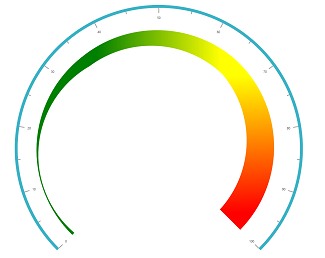
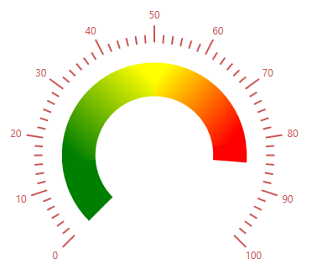
Modified the commit

Changed region(s): [[0.0288, 0.0, 0.9519, 0.9612]]

diff --git a/wpf/Radial-Gauge/Ranges.md b/wpf/Radial-Gauge/Ranges.md
@@ -626,19 +626,27 @@ You can give color transition to range by specifying the different colors based 
 
 {% highlight xaml %}
 
-        <gauge:SfCircularGauge>
+       <gauge:SfCircularGauge>
             <gauge:SfCircularGauge.Scales>
-                <gauge:CircularScale>
+                <gauge:CircularScale LabelStroke ="IndianRed" LabelOffset="0.77" LabelPosition="Custom" MinorTicksPerInterval="5"  RangePosition="Custom" TickPosition="Custom" RimStroke="White">
                     <gauge:CircularScale.Ranges>
-                        <gauge:CircularRange StartValue="0" EndValue="100" Offset="0.6"
-                                       InnerStartOffset = "0.83" InnerEndOffset = "0.6" OuterStartOffset = "0.85" OuterEndOffset =" 0.8">
+                        <gauge:CircularRange StartValue="0" EndValue="85" Offset="0.5" StrokeThickness="40" >
                             <gauge:CircularRange.GradientStops>
-                                <gauge:GaugeGradientStop Value="35" Color="Green"/>
-                                <gauge:GaugeGradientStop Value="65" Color="#FFDD00"/>
-                                <gauge:GaugeGradientStop Value="100" Color="Red"/>
+                                <gauge:GaugeGradientStop Value="15" Color="OrangeRed"/>
+                                <gauge:GaugeGradientStop Value="50" Color="#FFDD00"/>
+                                <gauge:GaugeGradientStop Value="80" Color="Green"/>
                             </gauge:CircularRange.GradientStops>
                         </gauge:CircularRange>
                     </gauge:CircularScale.Ranges>
+                    <gauge:CircularScale.MajorTickSettings>
+                        <gauge:MajorTickSetting  Length="20" Stroke="IndianRed" StrokeThickness="2"  Offset="0.7"  />
+                    </gauge:CircularScale.MajorTickSettings>
+                    <gauge:CircularScale.MinorTickSettings>
+                        <gauge:MinorTickSetting  Stroke="IndianRed"  StrokeThickness="2"  Offset="0.65"  />
+                    </gauge:CircularScale.MinorTickSettings>
+                    <gauge:CircularScale.Pointers>
+                        <gauge:CircularPointer PointerType="NeedlePointer" Visibility="Collapsed"/>
+                    </gauge:CircularScale.Pointers>
                 </gauge:CircularScale>
             </gauge:SfCircularGauge.Scales>
         </gauge:SfCircularGauge>
@@ -647,33 +655,49 @@ You can give color transition to range by specifying the different colors based 
 
 {% highlight c# %}
 
-         SfCircularGauge sfCircularGauge = new SfCircularGauge();
-         CircularScale mainscale = new CircularScale();
-         CircularRange circularRange = new CircularRange();
-         circularRange.StartValue = 0;
-         circularRange.EndValue = 100;
-         circularRange.InnerStartOffset = 0.83;
-         circularRange.InnerEndOffset = 0.6;
-         circularRange.OuterStartOffset = 0.85;	
-         circularRange.OuterEndOffset = 0.8;
-         ObservableCollection<GaugeGradientStop> gradientColor1 = new ObservableCollection<GaugeGradientStop>();
-         GaugeGradientStop gaugeGradientStop = new GaugeGradientStop();
-         gaugeGradientStop.Value = 35;
-         gaugeGradientStop.Color = Colors.Green;
-         circularRange.GradientStops.Add(gaugeGradientStop);
-         GaugeGradientStop gaugeGradientStop1 = new GaugeGradientStop();
-         gaugeGradientStop1.Value = 65;
-         gaugeGradientStop1.Color = Colors.Yellow;
-         circularRange.GradientStops.Add(gaugeGradientStop1);
-         GaugeGradientStop gaugeGradientStop2 = new GaugeGradientStop();
-         gaugeGradientStop2.Value = 100;
-         gaugeGradientStop2.Color = Colors.Red;
-         circularRange.GradientStops.Add(gaugeGradientStop2);
-         mainscale.Ranges.Add(circularRange);
-         CircularPointer circularPointer = new CircularPointer();
-         circularPointer.NeedlePointerVisibility = Visibility.Hidden;
-         mainscale.Pointers.Add(circularPointer);
-         fCircularGauge.Scales.Add(mainscale);
+            SfCircularGauge sfCircularGauge = new SfCircularGauge();
+            CircularScale mainscale = new CircularScale();
+            mainscale.RimStroke = new SolidColorBrush(Colors.White);
+            mainscale.LabelStroke = new SolidColorBrush(Colors.IndianRed);
+            mainscale.LabelOffset = 0.77;
+            mainscale.LabelPosition = LabelPosition.Custom;
+            mainscale.MinorTicksPerInterval = 5;
+            mainscale.RangePosition = RangePosition.Custom;
+            mainscale.TickPosition = TickPosition.Custom;
+            CircularRange circularRange = new CircularRange();
+            circularRange.StartValue = 0;
+            circularRange.EndValue = 85;
+            circularRange.Offset = 0.5;
+            circularRange.StrokeThickness = 40;
+            ObservableCollection<GaugeGradientStop> gradientColor1 = new ObservableCollection<GaugeGradientStop>();
+            GaugeGradientStop gaugeGradientStop = new GaugeGradientStop();
+            gaugeGradientStop.Value = 15;
+            gaugeGradientStop.Color = Colors.Green;
+            circularRange.GradientStops.Add(gaugeGradientStop);
+            GaugeGradientStop gaugeGradientStop1 = new GaugeGradientStop();
+            gaugeGradientStop1.Value = 50;
+            gaugeGradientStop1.Color = Colors.Yellow;
+            circularRange.GradientStops.Add(gaugeGradientStop1);
+            GaugeGradientStop gaugeGradientStop2 = new GaugeGradientStop();
+            gaugeGradientStop2.Value = 80;
+            gaugeGradientStop2.Color = Colors.Red;
+            circularRange.GradientStops.Add(gaugeGradientStop2);
+            mainscale.Ranges.Add(circularRange);
+            MajorTickSetting majorTickSetting = new MajorTickSetting();
+            majorTickSetting.Length = 20;
+            majorTickSetting.Stroke = new SolidColorBrush(Colors.IndianRed);
+            majorTickSetting.StrokeThickness = 2;
+            majorTickSetting.Offset = 0.7;
+            mainscale.MajorTickSettings = majorTickSetting;
+            MinorTickSetting minorTickSetting = new MinorTickSetting();
+            minorTickSetting.Stroke = new SolidColorBrush(Colors.IndianRed);
+            minorTickSetting.StrokeThickness = 2;
+            minorTickSetting.Offset = 0.65;
+            mainscale.MinorTickSettings = minorTickSetting;
+            CircularPointer circularPointer = new CircularPointer();
+            circularPointer.NeedlePointerVisibility = Visibility.Hidden;
+            mainscale.Pointers.Add(circularPointer);
+            sfCircularGauge.Scales.Add(mainscale);
 
 {% endhighlight %}
 
